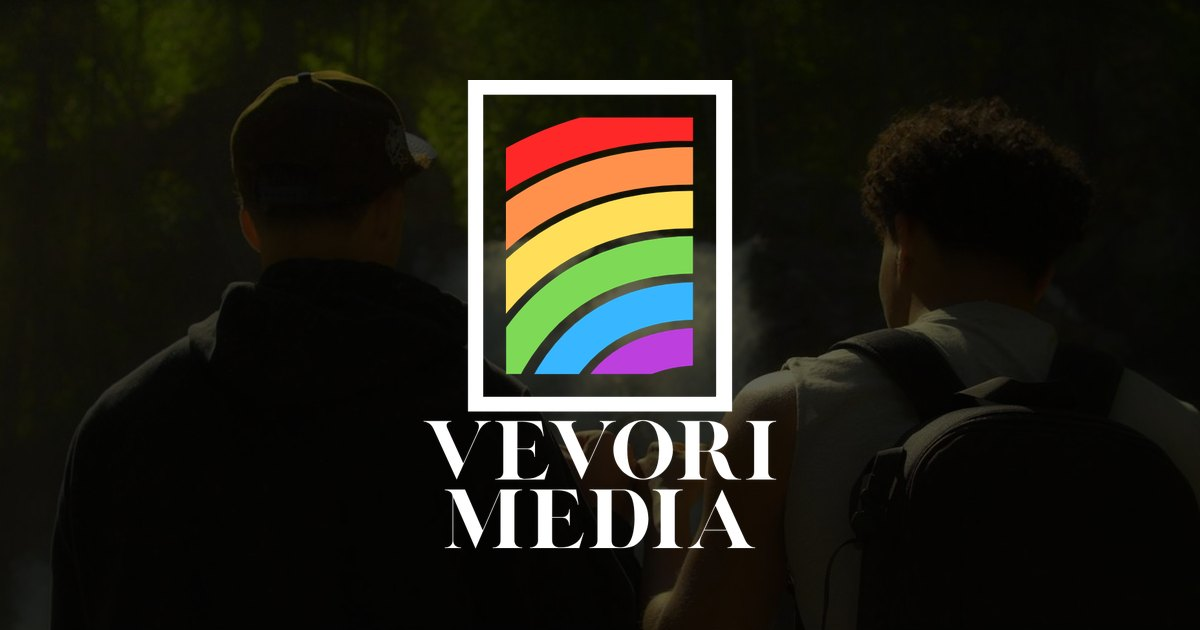
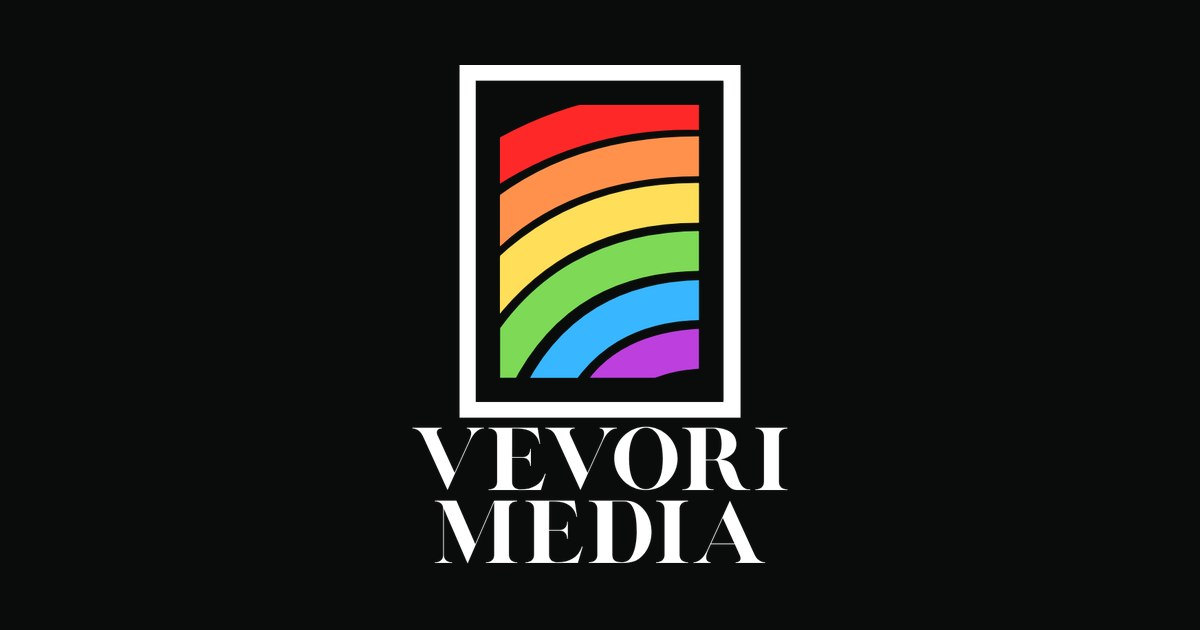
Separate Vevori from CollinMotion, company voice, add CNAME
- Remove every CollinMotion link, image, and Pixieset reference
- Replace the hero still (from a personal film) with the brand mark
- Rewrite first-person copy to "we" and add a short founder-neutral About
- Drop unfilled prices, booking date, turnaround number, and testimonial
  so the page is safe to publish; templates stay as comments
- Remove the personal coastline and hero photos from the repo
- Rebuild og.jpg from the logo, add CNAME for vevorimedia.com, update README

Claude-Session: https://claude.ai/code/session_013XAGkqVtgaFQAAciKXJoCg

diff --git a/index.html b/index.html
@@ -9,8 +9,8 @@
      Single file. No build step. Goes in a GitHub repo, served by GitHub Pages
      at vevorimedia.com.
 
-     CollinMotion is a separate site for personal/creative work. Anything on
-     this page should be work a business would pay for.
+     This site is for Vevori Media only. Keep it company-voice ("we") so it
+     still reads right as the team grows.
 
      EDIT MARKERS:
        [[COPY]]     words to rewrite in your own voice
@@ -23,7 +23,7 @@
    ========================================================================== -->
 
 <title>Vevori Media — Video production in Oregon &amp; Alaska</title>
-<meta name="description" content="Vevori Media is a video production company run by Collin Butrlakorn, working in Oregon and Alaska. Brand and corporate films, advertising, event coverage, and sports media.">
+<meta name="description" content="Vevori Media is a video production company based in Oregon, working across Oregon and Alaska. Brand and corporate films, advertising, event coverage, and sports media.">
 <!-- PRE-LAUNCH: keeps search engines away while placeholder text is still on the page.
      DELETE THIS LINE when the site is ready to be found. -->
 <meta name="robots" content="noindex, nofollow">
@@ -48,7 +48,7 @@
   "email": "collinbutrlakorn@gmail.com",
   "areaServed": ["Oregon", "Alaska"],
   "founder": { "@type": "Person", "name": "Collin Butrlakorn" },
-  "sameAs": ["https://www.instagram.com/vevorimedia/", "https://collinmotion.com/"]
+  "sameAs": ["https://www.instagram.com/vevorimedia/"]
 }
 </script>
 
@@ -172,6 +172,7 @@ p{ margin:0 0 1em; max-width:62ch; }
   background:#0a0c0b center/cover no-repeat;
   border:1px solid rgba(21,24,26,.35);
 }
+.hero__mark{ position:absolute; z-index:1; top:clamp(1.25rem,4vw,3rem); right:clamp(1.25rem,5vw,4rem); height:clamp(7rem,30vw,17rem); width:auto; }
 .hero__veil{ position:absolute; inset:0; background:linear-gradient(to top,rgba(10,12,11,.9) 0%,rgba(10,12,11,.3) 48%,rgba(10,12,11,.05) 78%); }
 .hero__plate{
   position:absolute; left:0; right:0; bottom:0;
@@ -242,7 +243,6 @@ p{ margin:0 0 1em; max-width:62ch; }
 
 /* ---------- about ---------- */
 .about{ display:grid; gap:clamp(1.5rem,4vw,3.5rem); grid-template-columns:minmax(0,1fr); align-items:start; }
-@media (min-width:880px){ .about{ grid-template-columns:22rem minmax(0,1fr); } }
 .about__pic{ aspect-ratio:4/5; background:var(--stage-deep) center/cover no-repeat; }
 .quote{ margin:2.5rem 0 0; padding-left:1.25rem; border-left:2px solid var(--ink); font-size:1.15rem; font-family:var(--display); font-weight:400; line-height:1.45; }
 .quote cite{ display:block; margin-top:.6rem; font-size:.88rem; font-style:normal; color:var(--ink-faint); }
@@ -324,15 +324,17 @@ footer{
 
 <!-- ================= HERO ================= -->
 <header class="hero" id="top">
-  <!-- [[MEDIA]] Hero still is assets/hero.jpg. To use a looping video instead, add assets/hero-loop.mp4 (6-10s, muted, under ~4 MB). -->
-  <div class="hero__frame" style="background-image:url('assets/hero.jpg')">
+  <!-- [[MEDIA]] The hero shows the brand mark until there is real footage. To use a still or loop of client work, add it
+       to /assets and set it as the background of .hero__frame (or add a <video> element inside it). -->
+  <div class="hero__frame">
+    <img class="hero__mark" src="logos/vevori-mark-white.png" alt="">
     <!-- Optional looping video: add assets/hero-loop.mp4, then restore
          <video id="reel" autoplay muted loop playsinline><source src="assets/hero-loop.mp4" type="video/mp4"></video> -->
     <div class="hero__veil"></div>
     <div class="hero__plate">
       <h1>Video that has a job to do</h1><!-- [[COPY]] -->
       <div class="hero__say">
-        <p>Vevori Media is a video production company in Oregon, run by Collin Butrlakorn. Corporate films, advertising, events, and sports — shot, cut, and delivered without an agency sitting in the middle.</p><!-- [[COPY]] -->
+        <p>Vevori Media is a video production company based in Oregon. Corporate films, advertising, events, and sports, produced start to finish without an agency in the middle.</p><!-- [[COPY]] -->
         <div class="hero__actions">
           <a class="btn btn--light" href="#contact">Start a project</a>
           <a class="btn btn--onDark" href="#work">See the work</a>
@@ -343,7 +345,6 @@ footer{
   <div class="hero__meta">
     <span>Based in Oregon</span>
     <span>Shooting in Alaska</span>
-    <span>Booking from PLACEHOLDER month</span><!-- [[COPY]] -->
   </div>
 </header>
 
@@ -356,27 +357,22 @@ footer{
     <div class="svc__row">
       <h3>Brand &amp; corporate films</h3>
       <p>A short film about what your business does and why it's worth someone's attention. Built for your homepage, your sales deck, and your recruiting page.</p>
-      <span class="svc__from">from $PLACEHOLDER</span><!-- [[COPY]] or delete the price column -->
     </div>
     <div class="svc__row">
       <h3>Advertising &amp; product spots</h3>
       <p>Short commercial work, cut in the sizes the platform actually wants: 30s, 15s, 6s, horizontal and vertical, from one shoot.</p>
-      <span class="svc__from">from $PLACEHOLDER</span>
     </div>
     <div class="svc__row">
       <h3>Event coverage</h3>
       <p>Conferences, openings, fundraisers. A recap film plus a set of clips, so the day is still working for you a month later.</p>
-      <span class="svc__from">from $PLACEHOLDER</span>
     </div>
     <div class="svc__row">
       <h3>Sports &amp; team media</h3>
       <p>Highlights, player features, and season recaps for programs and organizations. The work that started all of this.</p>
-      <span class="svc__from">from $PLACEHOLDER</span>
     </div>
     <div class="svc__row">
       <h3>Commercial stills</h3>
       <p>Headshots, staff pages, product and location photography. Usually added to a video shoot day rather than booked alone.</p>
-      <span class="svc__from">from $PLACEHOLDER</span>
     </div>
   </div>
 </section>
@@ -390,7 +386,7 @@ footer{
 
     <div class="work__panel">
       <p class="work__lead">Vevori Media is just getting started, so there's no client reel to scroll yet.</p><!-- [[COPY]] -->
-      <p>If you'd like to see how I shoot and edit before you reach out, ask and I'll send samples. A first project with me is a first project on this page, and I'll treat it that way.</p><!-- [[COPY]] -->
+      <p>If you'd like to see how we shoot and edit before you reach out, ask and we'll send samples. A first project with us is a first project on this page, and we'll treat it that way.</p><!-- [[COPY]] -->
       <a class="btn btn--light" href="#contact">Ask for samples</a>
     </div>
 
@@ -399,7 +395,7 @@ footer{
          YouTube embed: https://www.youtube-nocookie.com/embed/VIDEO_ID
          Vimeo embed:   https://player.vimeo.com/video/VIDEO_ID
          Add a thumbnail in /assets and point background-image at it.
-         Keep this section to paid or client work. Personal films belong on collinmotion.com.
+         Keep this section to paid or client work.
 
     <div class="grid">
       <button class="tile" data-embed="https://www.youtube-nocookie.com/embed/VIDEO_ID" data-title="Project name">
@@ -412,8 +408,6 @@ footer{
       </button>
     </div>
     -->
-
-    <p class="work__more">Looking for my personal films and photography? They're at <a href="https://collinmotion.com/">collinmotion.com</a>.</p><!-- [[LINK]] -->
   </div>
 </section>
 
@@ -435,7 +429,7 @@ footer{
     <div class="step">
       <div class="step__n">03</div>
       <h3>Deliver</h3>
-      <p>First cut within PLACEHOLDER days, two rounds of notes included, final files sized for every place you'll post them. You own the footage.</p>
+      <p>First cut on a timeline we agree up front, two rounds of notes included, and final files sized for every place you'll post them. You own the footage.</p>
     </div>
   </div>
 </section>
@@ -443,17 +437,13 @@ footer{
 <!-- ================= ABOUT ================= -->
 <section class="section wrap" id="about">
   <div class="about">
-    <!-- [[MEDIA]] This is a coastline photo, not a headshot. A real photo of you here will build more trust than scenery. Replace assets/about.jpg and update the aria-label. -->
-    <div class="about__pic" style="background-image:url('assets/about.jpg')" role="img" aria-label="Pacific Northwest coastline photographed by Collin Butrlakorn"></div>
     <div>
-      <h2>Who you're hiring</h2>
-      <p style="margin-top:1.5rem">Vevori Media is Collin Butrlakorn. I grew up in Alaska, outside and playing ball, and the basketball mixtapes I couldn't stop watching are most of why I picked up a camera in the first place. Photography came first, video took over, and the commercial work is now the part I build everything else around.</p><!-- [[COPY]] -->
-      <p>Right now the company is one person, which is the point: you talk to whoever is holding the camera, from the first email through the final file. When a job needs a second shooter or an audio op, I bring people I've worked with rather than a rotating crew.</p>
-      <p>Based in Oregon, back in Alaska often enough that a shoot up there isn't a logistics problem. My personal and creative work is at <a href="https://collinmotion.com/">collinmotion.com</a>.</p>
-      <blockquote class="quote">
-        PLACEHOLDER — one sentence from a client you've made happy. A single specific quote beats five generic ones. If you don't have one, ask your last client this week; most people say yes.
-        <cite>Name, Company</cite>
-      </blockquote><!-- [[COPY]] -->
+      <h2>About Vevori</h2>
+      <p style="margin-top:1.5rem">Vevori Media is a video production company based in Oregon, founded by Collin Butrlakorn. It started with one person and a camera, and it is growing into a small team.</p><!-- [[COPY]] -->
+      <p>However many people are on a given job, you have one point of contact from the first email through the final file. We staff each project with the people it needs, such as a second shooter or an audio operator, instead of sending a rotating cast.</p>
+      <p>We're based in Oregon and work across Oregon and Alaska.</p>
+      <!-- [[COPY]] TESTIMONIAL: when you have a real client quote, add it here:
+           <blockquote class="quote">Quote text.<cite>Name, Company</cite></blockquote> -->
     </div>
   </div>
 </section>
@@ -463,7 +453,7 @@ footer{
   <div class="contact__grid">
     <div>
       <h2>Start a project</h2>
-      <p class="lede" style="margin-bottom:2rem">Tell me roughly what you're thinking. Every inquiry gets an answer within one business day, even when the answer is no.</p><!-- [[COPY]] -->
+      <p class="lede" style="margin-bottom:2rem">Tell us roughly what you're thinking. Every inquiry gets an answer within one business day, even when the answer is no.</p><!-- [[COPY]] -->
 
       <!-- [[LINK]] A static site can't send email on its own. Make a free endpoint at
            formspree.io or web3forms.com and paste it into action="" below.
@@ -524,8 +514,6 @@ footer{
       <!-- [[LINK]] Add YouTube / TikTok / LinkedIn lines here once those @vevorimedia handles exist. -->
       <p><a href="https://www.instagram.com/vevorimedia/">Instagram — @vevorimedia</a></p>
 
-      <h3 style="margin-top:2rem">Worked together before?</h3>
-      <p style="color:var(--ink-soft)">Past photo deliveries are still in your <a href="https://collinmotion.pixieset.com/">client gallery</a>. Booking again takes one line — just say what and when.</p>
     </aside>
   </div>
 </section>
@@ -534,9 +522,9 @@ footer{
   <!-- [[COPY]] Add "LLC" once the entity is registered. -->
   <span class="foot__brand">
     <img src="logos/vevori-logo.png" alt="Vevori Media">
-    <span>© <span id="yr">2026</span> Vevori Media · Collin Butrlakorn</span>
+    <span>© <span id="yr">2026</span> Vevori Media</span>
   </span>
-  <span>Oregon &amp; Alaska · <a href="https://collinmotion.com/">CollinMotion</a></span>
+  <span>Oregon &amp; Alaska</span>
 </footer>
 
 <!-- ================= LIGHTBOX ================= -->

diff --git a/README.md b/README.md
@@ -2,12 +2,11 @@
 
 Landing page for Vevori Media (vevorimedia.com). One static page, no build step.
 
-Personal and creative work lives on a separate site, collinmotion.com.
-
 ## Files
 
 - `index.html` — the whole site (HTML, CSS, and a little JavaScript in one file)
-- `assets/` — `hero.jpg`, `about.jpg`, `og.jpg` (social share image)
+- `CNAME` — tells GitHub Pages which custom domain to serve
+- `assets/og.jpg` — social share image
 - `logos/` — full lockup (`vevori-logo*.png`), framed mark (`vevori-mark*.png`), `favicon.png`
 
 ## Editing
@@ -16,20 +15,18 @@ Search `index.html` for these markers:
 
 | Marker | Meaning |
 |---|---|
-| `PLACEHOLDER` | Text or value that still needs real content |
-| `[[COPY]]` | Wording to rewrite in your own voice |
-| `[[LINK]]` | URL to fill in (email, form endpoint, video embeds) |
+| `PLACEHOLDER` | Value that still needs filling in (currently only the form endpoint) |
+| `[[COPY]]` | Wording you may want to rewrite |
+| `[[LINK]]` | URL to fill in (email, form endpoint) |
 | `[[MEDIA]]` | Image or video to swap |
 | `[[CLIENT]]` | Portfolio entry |
 
-Brand colors (sampled from the logo) are CSS variables at the top of the stylesheet.
+Brand colors (sampled from the logo) are CSS variables at the top of the stylesheet. Copy is written in company voice ("we") so it holds up as the team grows.
 
 ## Before launch checklist
 
-1. The Work section is a "samples on request" panel for now. When you have real client work, swap it for the tile grid kept in a comment right below it in `index.html`.
-2. Create a free form endpoint at formspree.io or web3forms.com and paste it into the form's `action`.
-3. Replace the testimonial, prices, and turnaround placeholders, or delete those blocks.
-4. Swap `about.jpg` for a photo of you.
-5. Delete the `noindex` meta tag in `<head>` so search engines can find the site.
-6. Turn on GitHub Pages (Settings, Pages, deploy from `main`, root folder).
-7. Add a file named `CNAME` containing `vevorimedia.com`, point DNS at GitHub Pages, then enable "Enforce HTTPS".
+1. Create a free form endpoint at formspree.io or web3forms.com and paste it into the form's `action`.
+2. Swap the contact email for collin@vevorimedia.com (or a shared address like hello@) once forwarding works. It appears in the contact section and the search-engine metadata.
+3. When there is real client work, replace the Work panel with the tile grid kept in a comment under it. Add a testimonial the same way (template is commented in the About section).
+4. Delete the `noindex` meta tag in `<head>` so search engines can find the site.
+5. GitHub Pages: Settings, Pages, deploy from `main`, root folder, custom domain `vevorimedia.com`, then enable "Enforce HTTPS" once it's available.
